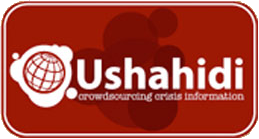
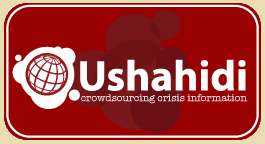
Changed background color of application to match Android version

diff --git a/Ushahidi.View/Views/ListView.Designer.cs b/Ushahidi.View/Views/ListView.Designer.cs
@@ -66,6 +66,7 @@
             this.comboBoxCategories.DataSource = null;
             this.comboBoxCategories.DisplayMember = "Title";
             this.comboBoxCategories.IsRequired = false;
+            this.comboBoxCategories.Label = "Label";
             this.comboBoxCategories.Location = new System.Drawing.Point(0, 0);
             this.comboBoxCategories.Name = "comboBoxCategories";
             this.comboBoxCategories.SelectedIndex = -1;
@@ -89,11 +90,11 @@
             this.listBoxIncidents.BorderStyle = System.Windows.Forms.BorderStyle.FixedSingle;
             this.listBoxIncidents.ForeColor = System.Drawing.Color.Black;
             this.listBoxIncidents.ForeSelectedColor = System.Drawing.Color.White;
-            this.listBoxIncidents.Location = new System.Drawing.Point(0, 45);
+            this.listBoxIncidents.Location = new System.Drawing.Point(3, 45);
             this.listBoxIncidents.Name = "listBoxIncidents";
             this.listBoxIncidents.SelectedIndex = -1;
             this.listBoxIncidents.SelectedItem = null;
-            this.listBoxIncidents.Size = new System.Drawing.Size(176, 135);
+            this.listBoxIncidents.Size = new System.Drawing.Size(170, 132);
             this.listBoxIncidents.TabIndex = 0;
             this.listBoxIncidents.IndexChanged += new Ushahidi.Common.Controls.ScrollListBox.ItemHandler(this.OnIncidentChanged);
             this.listBoxIncidents.ItemSelected += new Ushahidi.Common.Controls.ScrollListBox.ItemHandler(this.OnIncidentSelected);

diff --git a/Ushahidi.View/Views/HomeView.cs b/Ushahidi.View/Views/HomeView.cs
@@ -2,6 +2,7 @@
 using System.Drawing;
 using Ushahidi.View.Controllers;
 using Ushahidi.Model.Extensions;
+using Ushahidi.View.Controls;
 
 namespace Ushahidi.View.Views
 {
@@ -22,6 +23,12 @@ namespace Ushahidi.View.Views
             buttonListIncident.Translate("incidentList");
             buttonAddIncident.Translate("addIncident");
             buttonSynchronize.Translate("synchronize");
+        }
+
+        public override void Render()
+        {
+            base.Render();
+            panelContent.BackColor = Colors.Background;
         }
 
         /// <summary>
@@ -56,8 +63,8 @@ namespace Ushahidi.View.Views
         private void OnResize(object sender, EventArgs e)
         {
             int padding = buttonListIncident.Left;
-            buttonListIncident.Height = buttonAddIncident.Height = buttonSynchronize.Height =
-                (ClientRectangle.Height - pictureBoxLogo.Height - pictureBoxLogo.Top - (padding*4)) / 3;
+            int height = (ClientRectangle.Height - pictureBoxLogo.Height - pictureBoxLogo.Top - (padding * 4)) / 3;
+            buttonListIncident.Height = buttonAddIncident.Height = buttonSynchronize.Height = height > 28 ? height : 28;
             buttonListIncident.Top = pictureBoxLogo.Bottom + padding;
             buttonAddIncident.Top = buttonListIncident.Bottom + padding;
             buttonSynchronize.Top = buttonAddIncident.Bottom + padding;

diff --git a/Ushahidi.View/Views/SettingsView.cs b/Ushahidi.View/Views/SettingsView.cs
@@ -4,6 +4,7 @@ using System.Globalization;
 using Ushahidi.Common.Controls;
 using Ushahidi.Model;
 using Ushahidi.Model.Extensions;
+using Ushahidi.View.Controls;
 
 namespace Ushahidi.View.Views
 {
@@ -40,6 +41,13 @@ namespace Ushahidi.View.Views
         public override void Render()
         {
             ShouldSave = true;
+            textBoxEmail.BackColor = Colors.Background;
+            textBoxFirstName.BackColor = Colors.Background;
+            textBoxLastName.BackColor = Colors.Background;
+            comboBoxLanguages.BackColor = Colors.Background;
+            comboBoxMapType.BackColor = Colors.Background;
+            checkBoxKeyboard.BackColor = Colors.Background;
+            panelContent.BackColor = Colors.Background;
         }
 
         /// <summary>

diff --git a/Ushahidi.View/Views/MapView.cs b/Ushahidi.View/Views/MapView.cs
@@ -1,6 +1,7 @@
 using Ushahidi.Common.MVC;
 using Ushahidi.Model.Models;
 using Ushahidi.Model.Extensions;
+using Ushahidi.View.Controls;
 
 namespace Ushahidi.View.Views
 {
@@ -14,16 +15,17 @@ namespace Ushahidi.View.Views
             InitializeComponent();    
         }
 
-        public override void Initialize()
-        {
-            base.Initialize();
-        }
-
         public override void Translate()
         {
             base.Translate();
             this.Translate("incidentMap");
             comboBoxCategories.Translate("category");
+        }
+
+        public override void Render()
+        {
+            base.Render();
+            comboBoxCategories.BackColor = Colors.Background;
         }
 
         /// <summary>

diff --git a/Ushahidi.View/Views/AboutView.Designer.cs b/Ushahidi.View/Views/AboutView.Designer.cs
@@ -35,7 +35,8 @@
             // 
             // pictureBoxLogo
             // 
-            this.pictureBoxLogo.Anchor = System.Windows.Forms.AnchorStyles.Top;
+            this.pictureBoxLogo.Anchor = ((System.Windows.Forms.AnchorStyles)(((System.Windows.Forms.AnchorStyles.Top | System.Windows.Forms.AnchorStyles.Left)
+                        | System.Windows.Forms.AnchorStyles.Right)));
             this.pictureBoxLogo.Image = ((System.Drawing.Image)(resources.GetObject("pictureBoxLogo.Image")));
             this.pictureBoxLogo.Location = new System.Drawing.Point(3, 3);
             this.pictureBoxLogo.Name = "pictureBoxLogo";

diff --git a/Ushahidi.View/Views/SyncView.cs b/Ushahidi.View/Views/SyncView.cs
@@ -6,6 +6,7 @@ using Ushahidi.Common.Logging;
 using Ushahidi.Common.Net;
 using Ushahidi.Model;
 using Ushahidi.Model.Extensions;
+using Ushahidi.View.Controls;
 
 namespace Ushahidi.View.Views
 {
@@ -39,6 +40,10 @@ namespace Ushahidi.View.Views
             base.Render();
             progressBox.Value = 0;
             listView.Items.Clear();
+            dateBoxLastSync.BackColor = Colors.Background;
+            textBoxServer.BackColor = Colors.Background;
+            progressBox.BackColor = Colors.Background;
+            panelContent.BackColor = Colors.Background;
         }
 
         /// <summary>

diff --git a/Ushahidi.View/Views/AddView.cs b/Ushahidi.View/Views/AddView.cs
@@ -58,6 +58,11 @@ namespace Ushahidi.View.Views
             textBoxDescription.Top = checkBoxesCategories.Bottom;
             scrollListBox.Top = textBoxDescription.Bottom;
             scrollListBox.AdjustHeight();
+            textBoxTitle.BackColor = Colors.Background;
+            dateBoxDate.BackColor = Colors.Background;
+            comboBoxLocales.BackColor = Colors.Background;
+            checkBoxesCategories.BackColor = Colors.Background;
+            textBoxDescription.BackColor = Colors.Background;
         }
 
         /// <summary>

diff --git a/Ushahidi.View/Views/BaseView.cs b/Ushahidi.View/Views/BaseView.cs
@@ -2,6 +2,7 @@
 using Ushahidi.Model;
 using Ushahidi.View.Controllers;
 using Ushahidi.Model.Extensions;
+using Ushahidi.View.Controls;
 
 namespace Ushahidi.View.Views
 {
@@ -32,6 +33,12 @@ namespace Ushahidi.View.Views
             menuItemAbout.Translate("about");
             menuItemSettings.Translate("settings");
             menuItemSynchronize.Translate("synchronize");
+        }
+
+        public override void Render()
+        {
+            base.Render();
+            BackColor = Colors.Background;
         }
 
         /// <summary>

diff --git a/Ushahidi.View/Controls/Colors.cs b/Ushahidi.View/Controls/Colors.cs
@@ -1,0 +1,15 @@
+using System.Drawing;
+
+namespace Ushahidi.View.Controls
+{
+    /// <summary>
+    /// Application Colors
+    /// </summary>
+    public static class Colors
+    {
+        /// <summary>
+        /// Background Color
+        /// </summary>
+        public readonly static Color Background = Color.FromArgb(234, 221, 177);
+    }
+}

diff --git a/Ushahidi.View/Views/AboutView.cs b/Ushahidi.View/Views/AboutView.cs
@@ -1,4 +1,5 @@
 using Ushahidi.Model.Extensions;
+using Ushahidi.View.Controls;
 
 namespace Ushahidi.View.Views
 {
@@ -20,6 +21,7 @@ namespace Ushahidi.View.Views
         public override void Render()
         {
             base.Render();
+            textBlockDescription.BackColor = Colors.Background;
         }
     }
 }

diff --git a/Ushahidi.View/Views/ListView.cs b/Ushahidi.View/Views/ListView.cs
@@ -37,6 +37,8 @@ namespace Ushahidi.View.Views
         {
             base.Render();
             comboBoxCategories.SelectedIndex = 0;
+            comboBoxCategories.BackColor = Colors.Background;
+            panelContent.BackColor = Colors.Background;
         }
 
         /// <summary>
